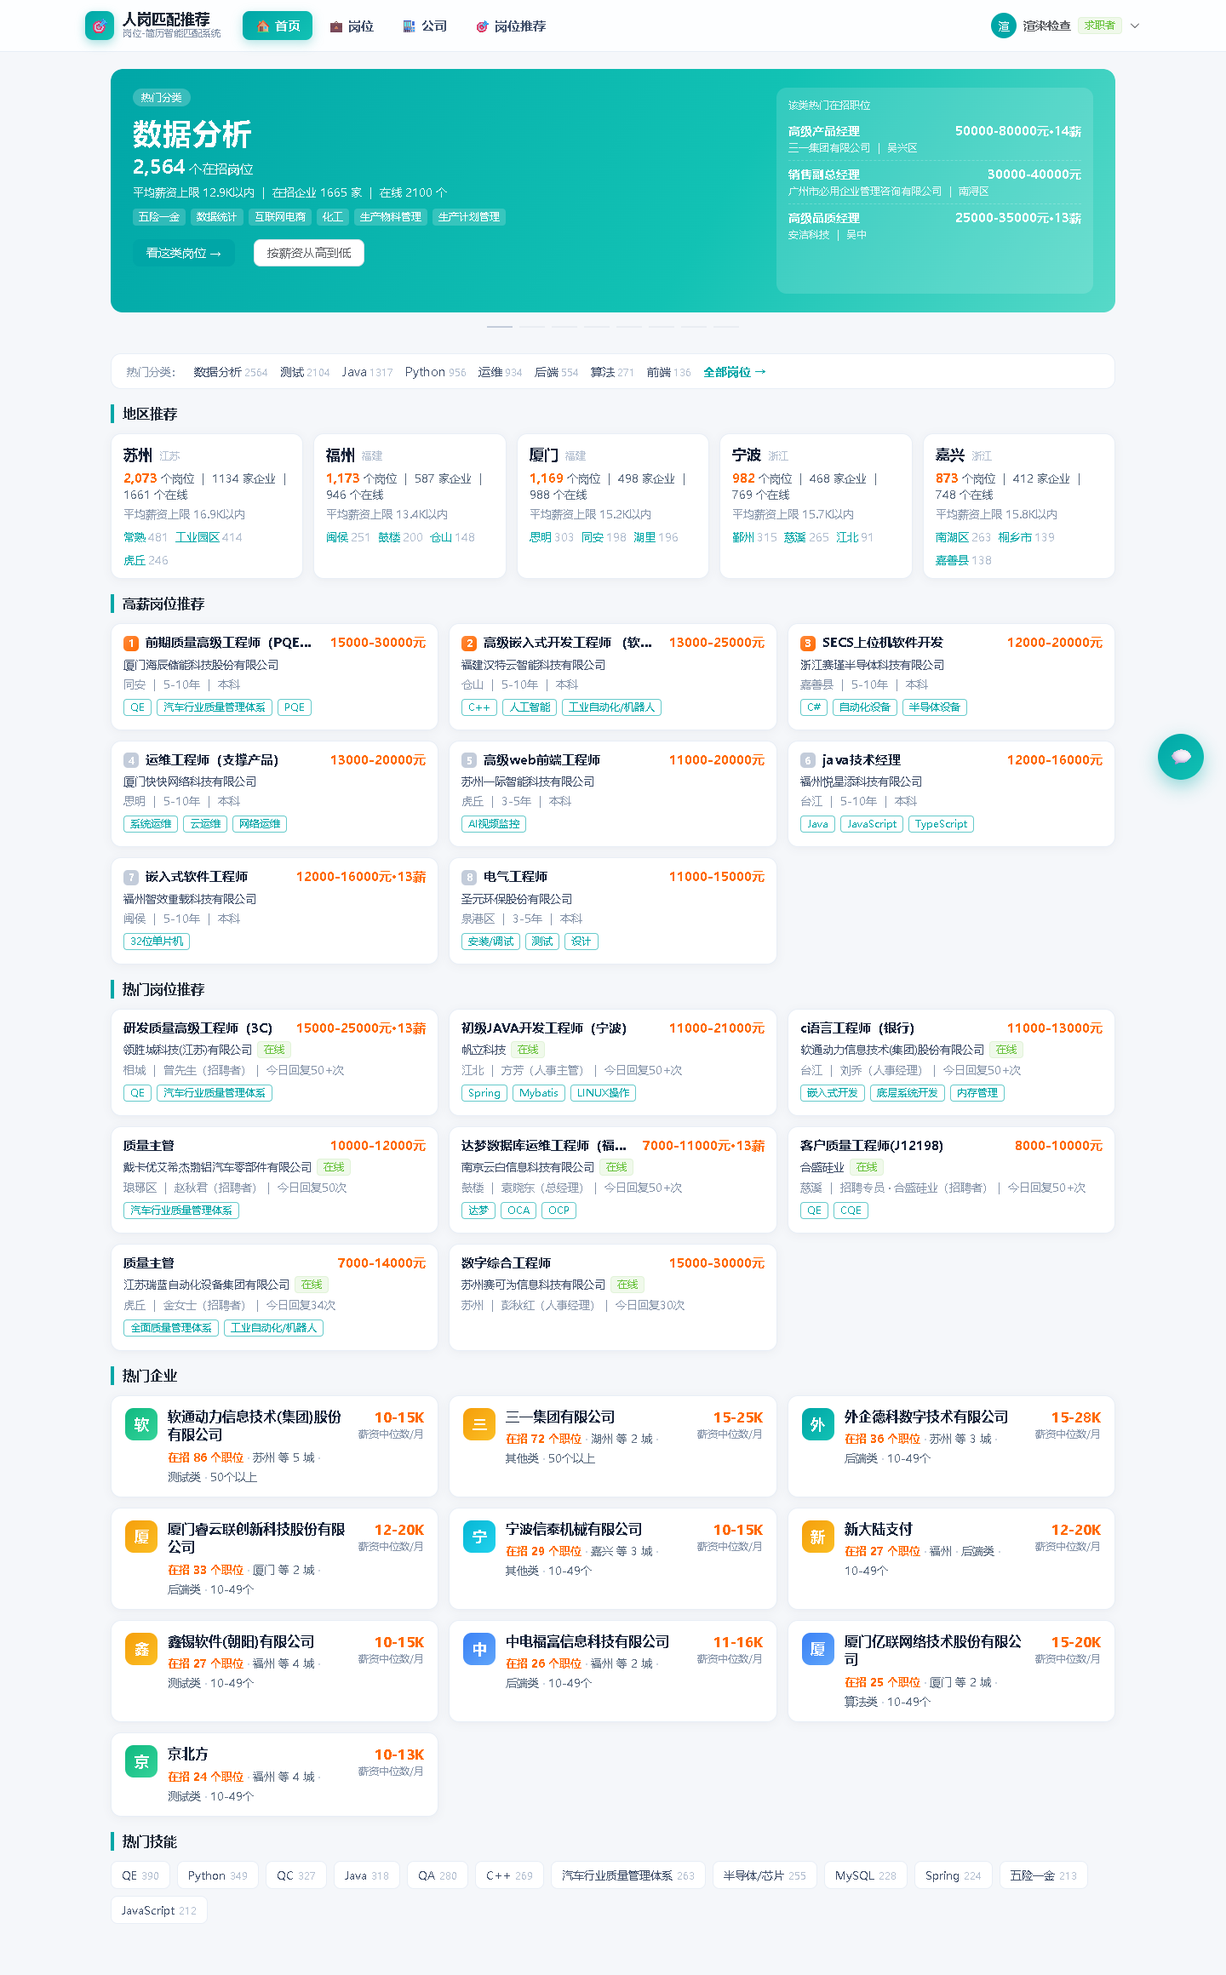
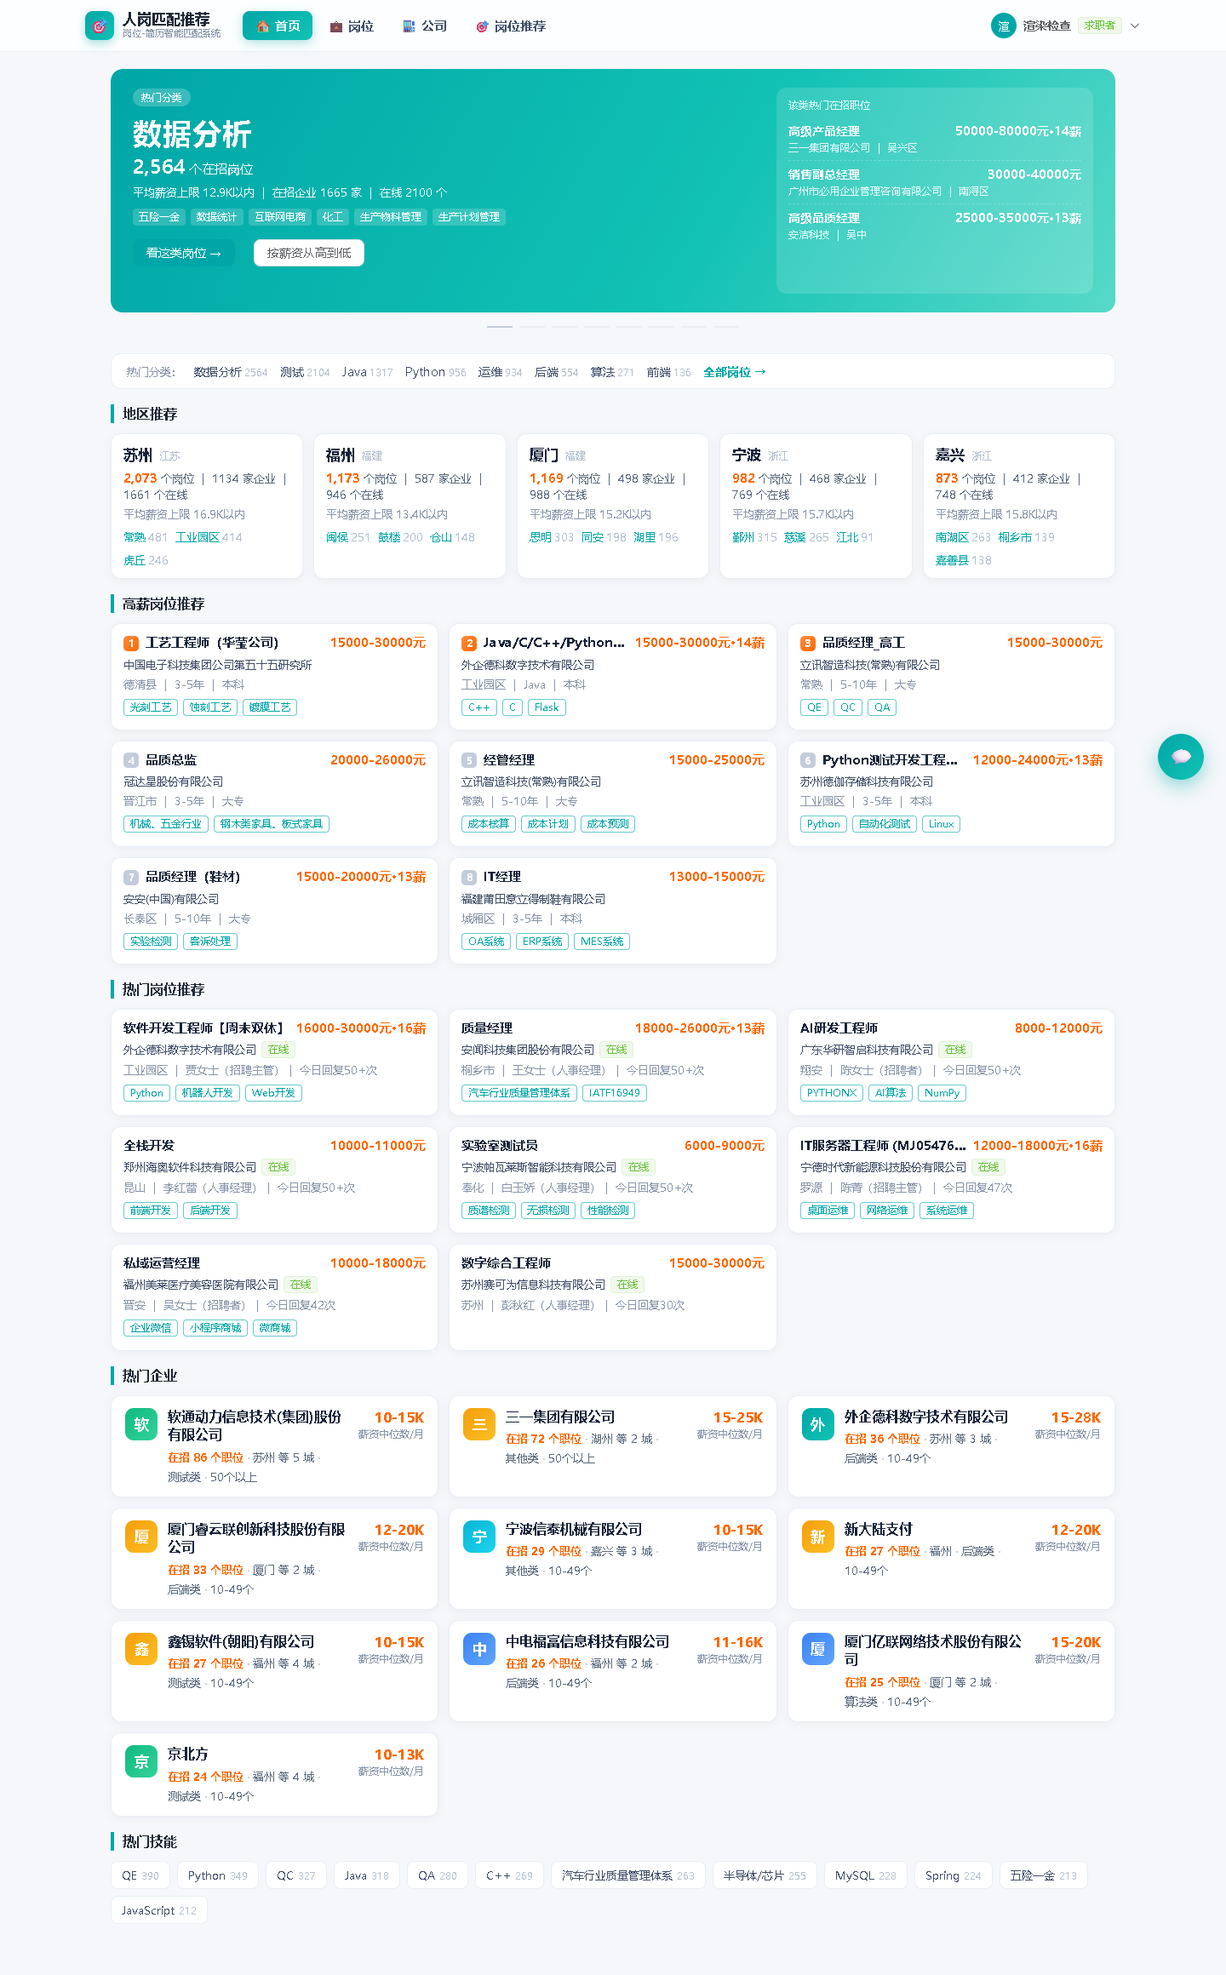
任务11: 岗位列表默认排序改为随机打乱（/api/jobs 新增 seed 种子随机：同 seed 翻页不重不漏、换 seed 换一批；前端每次进页面与点默认排序都换种子），测试185->189项全绿，渲染检查新增两项断言

diff --git a/web/src/views/JobsBrowseView.vue b/web/src/views/JobsBrowseView.vue
@@ -57,7 +57,7 @@
       <div class="frow">
         <span class="flb">排序：</span>
         <a v-for="s in st.筛选项.排序" :key="s.value" :class="{ on: sort === s.value }"
-           @click="sort = s.value; search()">{{ s.label }}</a>
+           @click="setSort(s.value)">{{ s.label }}</a>
       </div>
     </div>
 
@@ -140,6 +140,9 @@ const salaryMin = ref(0)
 const category = ref('')
 const sourceKw = ref('')
 const sort = ref('default')
+/** 默认排序的随机种子：进页面时随机一次，点「默认排序」再随机一次 → 每次顺序都不同 */
+const newSeed = () => Math.floor(Math.random() * 1e9)
+const seed = ref(newSeed())
 const page = ref(1)
 const size = ref(20)
 
@@ -170,6 +173,8 @@ function load(pageNo = 1) {
     page: pageNo, size: size.value, city: city.value, district: district.value,
     category: category.value, keyword: kw.value, source_kw: sourceKw.value,
     salary_min: salaryMin.value || 0, edu: edu.value, sort: sort.value,
+    // 默认排序是「打乱」：带上种子，翻页顺序才稳定（否则第 1、2 页会重复/漏岗位）
+    seed: seed.value,
   }).then((r) => { list.value = r; page.value = r.页码 })
     .catch(() => { /* 拦截器已提示 */ })
     .finally(() => { loading.value = false })
@@ -186,6 +191,13 @@ function setDistrict(d: string) { district.value = d; search() }
 function setSalary(v: number) { salaryMin.value = salaryMin.value === v ? 0 : v; search() }
 function setEdu(e: string) { edu.value = edu.value === e ? '' : e; search() }
 
+/** 切换排序；切到/重新点「默认排序」时换一个随机种子（= 换一批顺序） */
+function setSort(v: string) {
+  sort.value = v
+  if (v === 'default') seed.value = newSeed()
+  search()
+}
+
 /** 从 URL 查询参数初始化筛选（首页的「看这类岗位」/ 地区卡就是这么跳过来的） */
 function initFromQuery() {
   const q = route.query
@@ -197,6 +209,7 @@ function initFromQuery() {
   edu.value = String(q.edu || '')
   sort.value = String(q.sort || 'default')
   salaryMin.value = Number(q.salary_min || 0) || 0
+  if (sort.value === 'default') seed.value = newSeed()   // 每次带新种子进页面 = 换一批顺序
 }
 
 async function open(j: JobItem) {

diff --git a/web/src/api/index.ts b/web/src/api/index.ts
@@ -23,6 +23,8 @@ export interface JobQuery {
   keyword?: string
   /** 精确匹配「来源关键词」列（首页热门分类卡的数字就是这个口径） */
   source_kw?: string
+  /** 默认排序（打乱）用的随机种子：同种子翻页顺序稳定，换种子换一批 */
+  seed?: number
   salary_min?: number
   edu?: string
   cluster?: string

diff --git a/tests/test_jobs.py b/tests/test_jobs.py
@@ -156,6 +156,44 @@ class TestJobFilter:
         r = client.get("/api/jobs", params={"sort": "not-a-sort"})
         assert r.status_code == 200 and r.json()["总数"] == 8836
 
+    def test_default_sort_is_shuffled_by_seed(self):
+        """默认排序 = 种子打乱：换 seed 顺序不同，同 seed 完全一致（翻页才不会重复/漏）"""
+        a = client.get("/api/jobs", params={"seed": 111, "size": 30}).json()["岗位"]
+        b = client.get("/api/jobs", params={"seed": 222, "size": 30}).json()["岗位"]
+        a2 = client.get("/api/jobs", params={"seed": 111, "size": 30}).json()["岗位"]
+        assert [x["岗位ID"] for x in a] == [x["岗位ID"] for x in a2], "同 seed 必须完全一致"
+        assert [x["岗位ID"] for x in a] != [x["岗位ID"] for x in b], "不同 seed 应当给出不同顺序"
+        # 不再是按岗位ID升序
+        ids = [x["岗位ID"] for x in a]
+        assert ids != sorted(ids), "默认排序不应仍是按岗位ID排序"
+
+    def test_default_sort_pagination_consistency(self):
+        """种子打乱后翻页必须不重不漏：第 1、2 页无交集，且并集能上溯到同一洗牌序列"""
+        seed = 987654321
+        p1 = client.get("/api/jobs", params={"seed": seed, "page": 1, "size": 20}).json()["岗位"]
+        p2 = client.get("/api/jobs", params={"seed": seed, "page": 2, "size": 20}).json()["岗位"]
+        p3 = client.get("/api/jobs", params={"seed": seed, "page": 3, "size": 20}).json()["岗位"]
+        ids = [x["岗位ID"] for x in p1 + p2 + p3]
+        assert len(ids) == len(set(ids)) == 60, "翻页出现重复岗位：%d 个岗位 %d 个唯一ID" % (len(ids), len(set(ids)))
+        # 与「一次取 60 条」的结果完全一致（证明是同一条洗牌序列）
+        one = client.get("/api/jobs", params={"seed": seed, "page": 1, "size": 60}).json()["岗位"]
+        assert ids == [x["岗位ID"] for x in one]
+
+    def test_seed_ignored_for_explicit_sorts(self):
+        """种子只影响默认排序：显式排序（薪资/回复）结果必须与 seed 无关"""
+        s1 = client.get("/api/jobs", params={"sort": "salary_desc", "seed": 1, "size": 10}).json()["岗位"]
+        s2 = client.get("/api/jobs", params={"sort": "salary_desc", "seed": 999, "size": 10}).json()["岗位"]
+        assert [x["岗位ID"] for x in s1] == [x["岗位ID"] for x in s2]
+        ups = [x["薪资上限"] for x in s1]
+        assert ups == sorted(ups, reverse=True)
+
+    def test_no_seed_keeps_stable_order(self):
+        """不带 seed 时保持稳定顺序（接口默认行为，便于脚本/测试复现）"""
+        a = client.get("/api/jobs", params={"size": 10}).json()["岗位"]
+        b = client.get("/api/jobs", params={"size": 10}).json()["岗位"]
+        assert [x["岗位ID"] for x in a] == [x["岗位ID"] for x in b]
+        assert [x["岗位ID"] for x in a][0] == "J0001"
+
     def test_filter_no_match(self):
         j = client.get("/api/jobs", params={"city": "北京"}).json()
         assert j["总数"] == 0 and j["岗位"] == []

diff --git a/src/api/main.py b/src/api/main.py
@@ -122,14 +122,19 @@ def jobs_stats():
 @app.get("/api/jobs", response_model=schemas.JobListResponse, tags=["⓪ 首页"])
 def jobs_list(page: int = 1, size: int = 20, city: str = "", district: str = "",
               category: str = "", keyword: str = "", salary_min: int = 0, edu: str = "",
-              cluster: str = "", sort: str = "default", source_kw: str = ""):
-    """分页浏览全部岗位，支持城市/区县/大类/学历/关键词/薪资下限/簇/来源关键词筛选与排序"""
+              cluster: str = "", sort: str = "default", source_kw: str = "", seed: int = 0):
+    """分页浏览全部岗位，支持城市/区县/大类/学历/关键词/薪资下限/簇/来源关键词筛选与排序
+
+    `sort=default`（默认）时用 `seed` 做**种子随机打乱**：同 seed 翻页顺序稳定，
+    换 seed 就是新顺序（前端每次进「岗位」页/重新点默认排序都会换一个 seed）。
+    """
     try:
         from src.api.jobs import get_store
         r = get_store().query(page=page, size=size, city=city or None, district=district or None,
                               category=category or None, keyword=keyword or None,
                               salary_min=salary_min or None, edu=edu or None,
-                              cluster=cluster or None, sort=sort, source_kw=source_kw or None)
+                              cluster=cluster or None, sort=sort, source_kw=source_kw or None,
+                              seed=seed or None)
         r["来源"] = ["zhaopin_jobs_cleaned_seg.csv（清洗后 %d 个岗位）" % r["总数"]]
         return {"ok": True, **r}
     except Exception as e:

diff --git a/src/api/jobs.py b/src/api/jobs.py
@@ -47,6 +47,7 @@ SORTS = {
     "reply": "回复最积极",
     "online": "在线优先",
 }
+# 「默认排序」= 打乱顺序（种子随机，见 JobStore.query）；前端每次进页面会换一个 seed
 
 # 公司列表排序（BOSS直聘「公司」页的排序维度）
 COMPANY_SORTS = {
@@ -244,7 +245,7 @@ class JobStore:
 
     # ------------------------------------------------ 浏览与筛选
     def query(self, page=1, size=20, city=None, district=None, category=None, keyword=None,
-              salary_min=None, edu=None, cluster=None, sort="default", source_kw=None):
+              salary_min=None, edu=None, cluster=None, sort="default", source_kw=None, seed=None):
         rows = self.items
         if city:
             rows = [x for x in rows if x["城市"] == city]
@@ -274,6 +275,12 @@ class JobStore:
             rows = sorted(rows, key=lambda x: -x["今日回复数"])
         elif sort == "online":
             rows = sorted(rows, key=lambda x: -x["是否在线"])
+        elif seed:
+            # 默认排序 = **打乱**：同一个 seed 顺序稳定（翻页不会重复/漏岗位），
+            # 换一个 seed 就是另一批顺序 → 前端每次进页面/重点默认排序都会换 seed。
+            # 不用 random.shuffle 直接改全局随机：并发请求下会导致翻页顺序不一致。
+            rows = list(rows)
+            random.Random(int(seed)).shuffle(rows)
 
         total = len(rows)
         page = max(1, int(page))

diff --git a/docs/测试报告.md b/docs/测试报告.md
@@ -5,12 +5,12 @@
 | 对应任务 | **任务12 系统测试与优化**（2026-09-22 周二）｜ 本版聚焦 **任务11 前后端集成 + 用户体系** |
 | 测试对象 | FastAPI 后端（四类业务接口 + 用户体系）、Streamlit 前端（登录注册 + 五页签） |
 | 测试框架 | pytest 9.1.1 ｜ FastAPI `TestClient`（进程内）｜ Streamlit `AppTest`（无头执行前端脚本） |
-| 用例规模 | **185 项**（岗位浏览 37 + 首页推荐 22 + 公司浏览 37 + 业务接口 36 + 用户体系 43 + 前端 10），覆盖 **正常 / 边界 / 异常** 三条路径 |
-| 实测结果 | ✅ **185 passed / 0 failed**（49.13 s，2026-09-18 实测；含 7 项真实调用大模型的 `slow` 对话用例；前端无头渲染另计） |
-| 状态 | ✅ 通过 ｜ 版本 v2.4（2026-09-18）｜ 记录人：王俊淇 |
+| 用例规模 | **189 项**（岗位浏览 41 + 首页推荐 22 + 公司浏览 37 + 业务接口 36 + 用户体系 43 + 前端 10），覆盖 **正常 / 边界 / 异常** 三条路径 |
+| 实测结果 | ✅ **189 passed / 0 failed**（2026-09-18 实测；含真实调用大模型的 `slow` 对话用例；前端无头渲染另计） |
+| 状态 | ✅ 通过 ｜ 版本 v2.6（2026-09-18）｜ 记录人：王俊淇 |
 
 ```bash
-pytest -q                                       # 全部 185 项
+pytest -q                                       # 全部 189 项
 pytest -q tests/test_api.py -m "not slow"       # 只跑业务接口（离线可跑）
 pytest -q tests/test_auth.py                    # 用户体系
 pytest -q tests/test_home.py tests/test_jobs.py tests/test_companies.py   # 首页/岗位/公司
@@ -302,7 +302,8 @@ python src/api/score_features.py --validate 10  # 特征口径一致性自检
 
 ---
 
-> 文档版本：v2.5（2026-09-18，**岗位详情独立成页 + 问答直达链接后的复核**：新增 `/job/:id` 路由（每岗位独立 URL），所有"点岗位"入口由右侧抽屉改为跳页、`JobDetailDrawer.vue` 删除；Prompt v7 要求回答里给岗位页链接，前端渲染成可点链接；渲染检查路径 7 → **8 个**，新增"`/job/J0001` 页面含职位描述"与"点岗位卡跳到 `/#/job/J0001` 且无抽屉"两项断言；`npm run check:chat` 增加"回答带岗位链接"断言（本轮 1/5 条回答含链接，符合预期：只有列具体岗位的那条才该有）；浏览器实测：问答回答里渲染出 3 个岗位链接 → 点击直达岗位详情页、对话框自动收起、控制台 0 error；**后端用例数不变，仍 185 项全绿**（53.12 s）；
+> 文档版本：v2.6（2026-09-18，**岗位列表默认排序改为随机后的复核**：`/api/jobs` 新增 `seed` 参数，`sort=default` 用**种子随机**打乱（同 seed 翻页稳定、换 seed 换一批，避免"每页各自随机"导致重复/漏岗位）；`tests/test_jobs.py` 37 → **41 项**（新增 4 项：换 seed 顺序不同且同 seed 一致、三页不重不漏且与一次取 60 条一致、显式排序忽略 seed、无 seed 保持稳定），用例总数 185 → **189 项全绿**；渲染检查新增"两次进入岗位页顺序不同"与"翻页无交集"两项断言（8 路由 0 error）；另用一次性浏览器脚本实测：两次进页面首条不同（品管主管 / Java工程师）、第 1 页与第 2 页 0 重叠、点「默认排序」换一批、薪资从高到低仍严格降序、控制台 0 error；
+> v2.5（2026-09-18，**岗位详情独立成页 + 问答直达链接后的复核**：新增 `/job/:id` 路由（每岗位独立 URL），所有"点岗位"入口由右侧抽屉改为跳页、`JobDetailDrawer.vue` 删除；Prompt v7 要求回答里给岗位页链接，前端渲染成可点链接；渲染检查路径 7 → **8 个**，新增"`/job/J0001` 页面含职位描述"与"点岗位卡跳到 `/#/job/J0001` 且无抽屉"两项断言；`npm run check:chat` 增加"回答带岗位链接"断言（本轮 1/5 条回答含链接，符合预期：只有列具体岗位的那条才该有）；浏览器实测：问答回答里渲染出 3 个岗位链接 → 点击直达岗位详情页、对话框自动收起、控制台 0 error；**后端用例数不变，仍 185 项全绿**（53.12 s）；
 > v2.4（2026-09-18，**智能问答"更聪明 + 不再像固定答案"改造后的复核**：① `tests/test_api.py` 对话用例 3 → **7 项**（新增"`use_cache=false` 强制真实调用并校验 tokens/工具/来源"、"`history` 多轮追问与 `缓存时间` 字段"、"`history` 类型错误 422"、"缓存命中不再 500"），用例总数 182 → **185 项全绿**（49.13 s，含 7 项真实调用大模型的 `slow` 用例）；② 缺陷清单新增**第 10 条**（缓存命中必 500：把时间字符串当数字做减法）与**第 11 条**（用户反馈"像固定答案"的定位与改造）；③ 新增真实性检查脚本 `npm run check:chat`：强制 `use_cache=false` 连问 **5 个新问题** → **5/5 通过**（每条 `缓存命中=false`、`tokens.prompt>0`、有工具轨迹与来源；`company_query`、`generic_agg` 等新工具真被用上，模型 `deepseek-v4-pro`、Prompt `v6`）；④ 浏览器实测悬浮球：新问题"实时返回"、同一问题显示"缓存（2026-09-18 10:57:01）"、「🔄 重新回答」强制真实调用且答案重生成、追问接得上上文、失败时显示**后端真实错误**，控制台 0 error；⑤ 演示预热 `python scripts/prewarm_chat.py`：8 个演示问题**真实跑一遍**写入缓存（各 5.7~37.9 s、7,990~18,540 tokens）；
 > v2.3（2026-09-18，**智能问答改悬浮球 + 个人中心删「匹配历史」后的复核**：独立 `#/chat` 页取消，改为 `AppLayout` 上的全局悬浮球组件（可拖动、位置持久化、小对话框内提问/看轨迹与来源），个人中心页签 4 → **3 个**；渲染检查路由 8 → **7 个**，新增悬浮球 5 项断言（含"视口改小再恢复位置不丢"——本轮修掉的 bug）与 `#/chat` 重定向断言；实测小框提问 `厦门有哪些 Java 开发岗位？` → 工具 `search_jobs → filter_jobs`、2 轮、11.3 s、缓存命中、2 条来源、控制台 0 error；**后端用例数不变，仍 182 项全绿**（27.07 s）；
 > v2.2（2026-09-18，**"一人一份简历"改版 + 修掉 PDF 正文为空的老 bug**：① `tests/test_auth.py` 简历用例改写为单份语义（保存即覆盖、删后可重建、`is_default` 恒真），并新增"连续保存 5 次直接查 SQLite 只能有 1 行"与"更新成空正文要被拦"共 3 项（40 → **43 项**）；② `tests/test_api.py` 新增"解析结果回传 `原文`"与"上传 PDF 解析后 `原文` 非空"共 2 项（31 → **33 项**）——后者正是本次修掉的缺陷 8；③ 用例总数 177 → **182 项全绿**（28.37 s）；④ 缺陷清单新增第 8 条（PDF 正文恒为空）与第 9 条（多份简历与产品语义不符）；⑤ 浏览器实测：个人中心只有一张简历卡（无"已保存的简历"表格、无"设为默认"）、粘贴示例→保存→库里 1 份、改标题+改正文→仍是 1 份且内容为最后一次、删除→空态，全程控制台 0 error；8 路由 0 error；

diff --git a/web/README.md b/web/README.md
@@ -46,7 +46,7 @@ web/
     └── views/
         ├── LoginView.vue       # 登录/注册：整页浅青渐变 + **居中卡片**（420px）；注册仅 3 个字段（无角色选择）
         ├── HomeView.vue        # ★ 首页推荐：热门分类 hero 轮播 + 地区推荐 + 高薪岗位 + 热门岗位 + 热门企业 + 热门技能
-        ├── JobsBrowseView.vue  # ★ 岗位：仿 BOSS直聘 浏览筛选（支持 ?city= / ?source_kw= / ?keyword= / ?sort=）
+        ├── JobsBrowseView.vue  # ★ 岗位：仿 BOSS直聘 浏览筛选（**默认排序 = 随机打乱**；支持 ?city= / ?source_kw= / ?keyword= / ?sort=）
         ├── JobView.vue         # ★ 岗位详情（**每个岗位独立 URL：/job/J0020**）：JD + 匹配明细 + 同公司其他岗位
         ├── MatchView.vue       # ★ 岗位推荐（需登录）：用简历做六维加权匹配
         ├── CompaniesView.vue   # ★ 公司广场：热门/最活跃企业榜 + 筛选 + 公司卡网格
@@ -57,6 +57,10 @@ web/
 > **导航与入口约定（2026-09-18 改版）**：
 > 顶部标签只有 **首页 ｜ 岗位 ｜ 公司**（游客可见），登录后追加 **岗位推荐**；**个人中心只从右上角用户下拉进入**（无标签）；
 > **简历没有独立页面**——粘贴正文 / 上传 PDF / 解析 / 保存都在个人中心的「我的简历」页签里，解析完一键去「岗位推荐」；
+> **岗位列表「默认排序」是随机打乱**：后端 `/api/jobs?sort=default&seed=<数字>` 用**种子随机**打乱，
+> 前端每次进入「岗位」页、每次点「默认排序」都换一个新 seed（所以每次顺序都不同）；
+> **同一个 seed 顺序完全稳定**，因此翻页不会重复或漏岗位。显式排序（薪资/回复/在线）忽略 seed。
+>
 > **岗位详情是独立页面**：每个岗位一个 URL（`#/job/J0020`），从首页/岗位列表/公司页/匹配结果的任意一处点岗位都跳过去，**不再弹右侧抽屉**。
 > 页面里会展示"与我简历的匹配"（本次会话做过匹配时）与该公司的其他在招岗位。
 >
